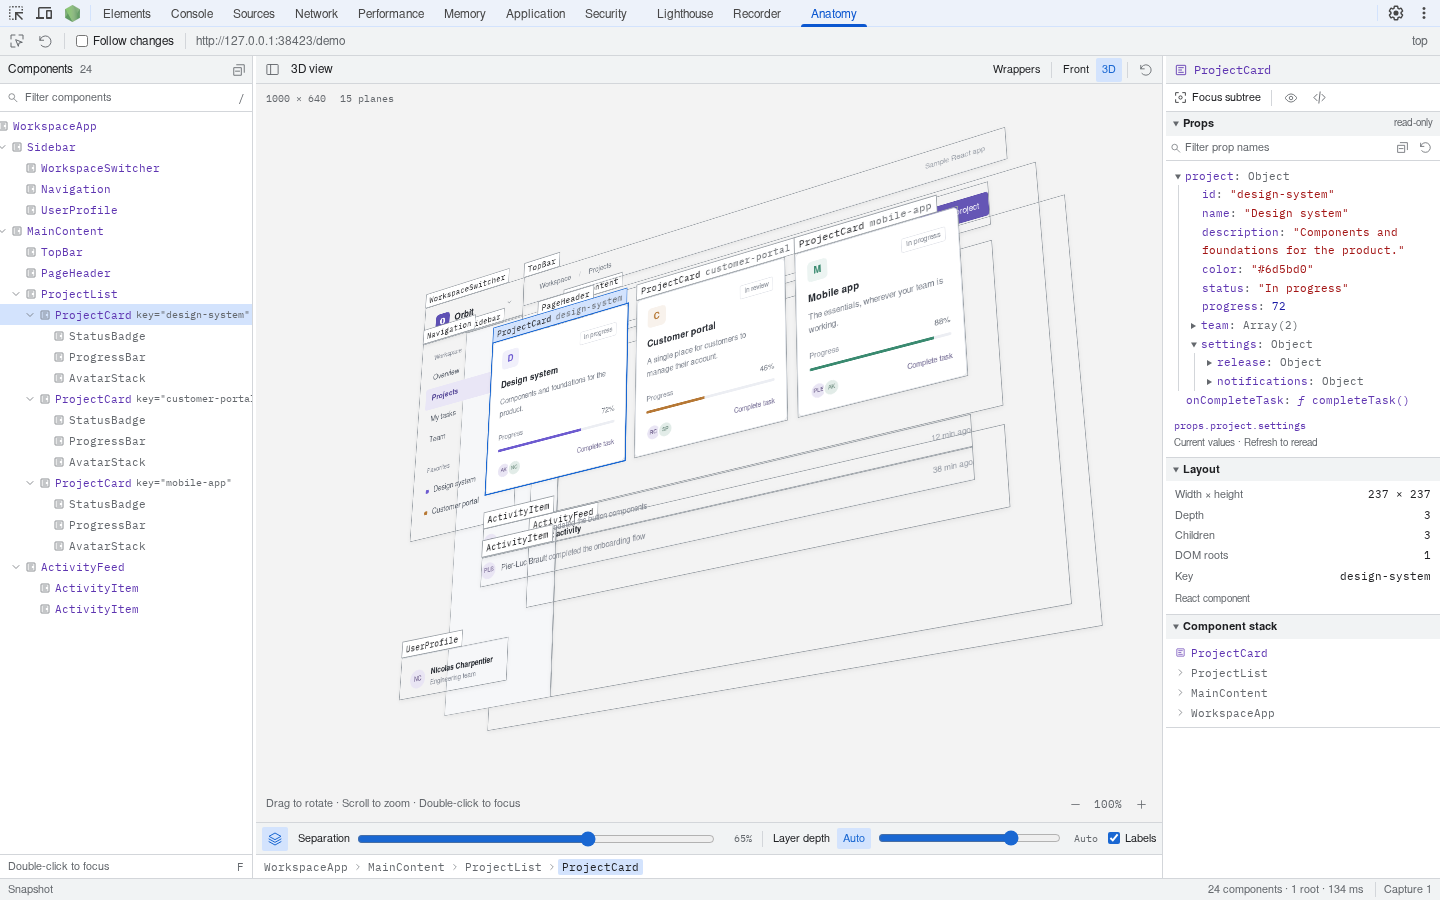
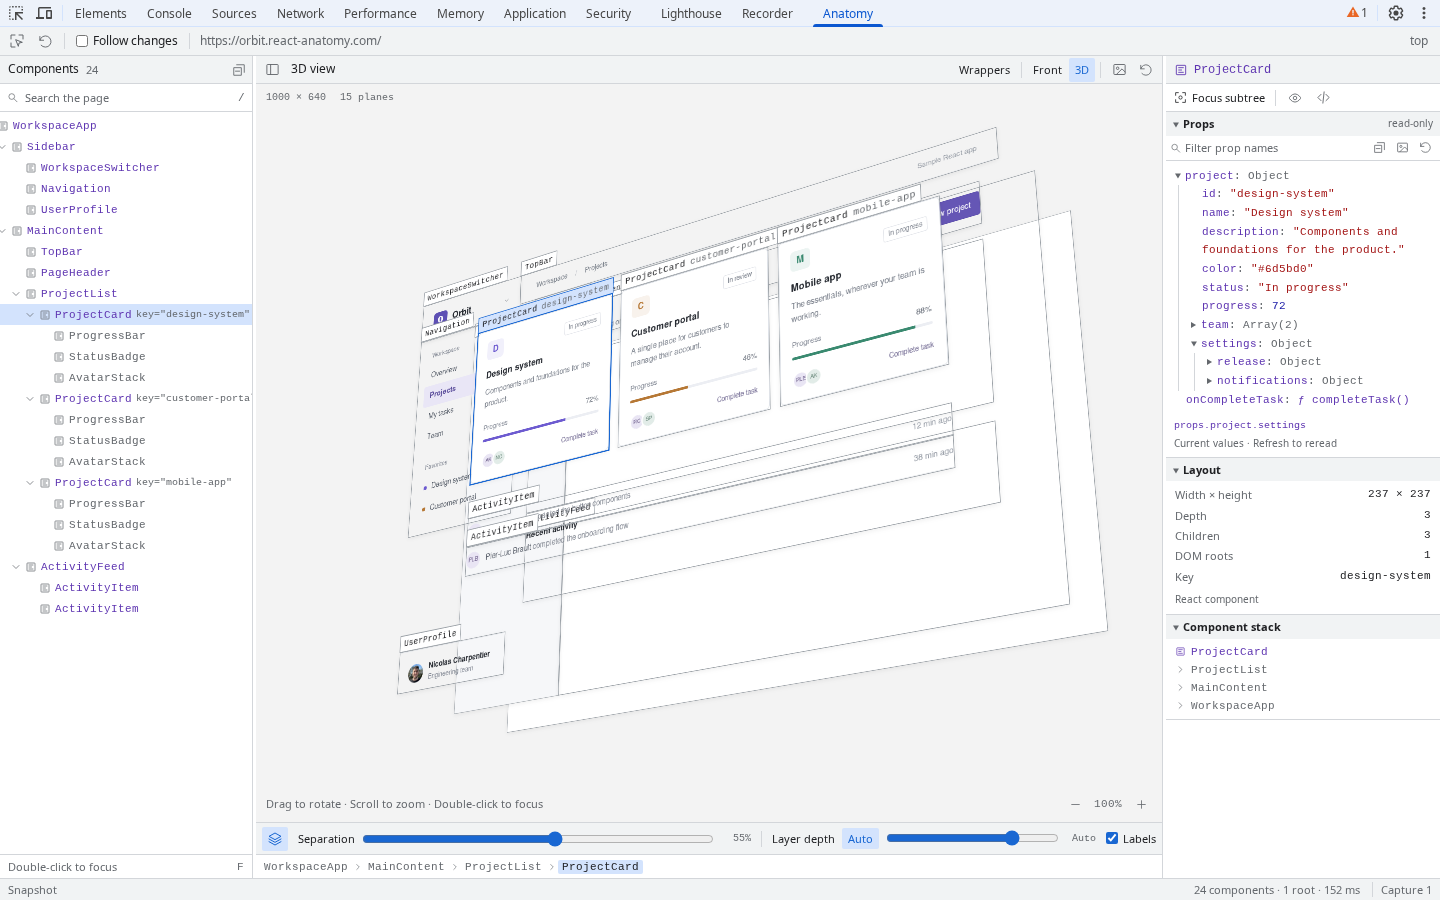
Use the public Orbit sample URL across the demo and docs (#26)

diff --git a/packages/website/scripts/check-demo.ts b/packages/website/scripts/check-demo.ts
@@ -54,6 +54,7 @@ const server = createServer(async (request, response) => {
 await new Promise<void>((done) => server.listen(0, '127.0.0.1', done));
 
 const base = `http://127.0.0.1:${(server.address() as AddressInfo).port}`;
+const orbitUrl = 'https://orbit.react-anatomy.com/';
 const browser = await chromium.launch({ headless: true, ...browserOptions() });
 const errors: string[] = [];
 const failures: string[] = [];
@@ -110,6 +111,12 @@ try {
   await observe(page);
   await page.goto(base);
   await page.locator('#demo').scrollIntoViewIfNeeded();
+  assert.equal(
+    await page
+      .getByRole('link', { name: 'orbit.react-anatomy.com', exact: true })
+      .getAttribute('href'),
+    orbitUrl,
+  );
 
   const source = page.frameLocator('#anatomy-source');
   const panel = page.frameLocator('#anatomy-panel');
@@ -130,6 +137,7 @@ try {
   await source.getByRole('button', { name: 'Complete task', exact: true }).first().click();
   await page.locator('[data-step="props"]').click();
   await panel.locator('[data-prop-path="props.project.progress"]').waitFor();
+  assert.equal(await panel.locator('.session').innerText(), orbitUrl);
   assert.equal(await page.locator('.demo-start-hint').isVisible(), false);
   assert.match(await panel.locator('[data-prop-path="props.project.progress"]').innerText(), /80/);
   assert.equal(await panel.locator('.tree-select').count(), 24);
@@ -379,11 +387,24 @@ try {
   );
 
   await page.goto(base + '/docs/');
-  const [orbit] = await Promise.all([
-    page.waitForEvent('popup'),
-    page.getByRole('link', { name: 'Open the Orbit sample in a new tab' }).click(),
-  ]);
+  const orbitLink = page.getByRole('link', { name: 'Open the Orbit sample in a new tab' });
+  assert.equal(await orbitLink.getAttribute('href'), orbitUrl);
+
+  // Serve the popup from this build using the same paths as the production rewrites.
+  const orbitPaths: Record<string, string> = {
+    '/': '/interactive/source.html',
+    '/source.js': '/interactive/source.js',
+    '/source.css': '/interactive/source.css',
+    '/fonts.css': '/interactive/fonts.css',
+  };
+  await page.context().route(orbitUrl + '**', async (route) => {
+    const { pathname } = new URL(route.request().url());
+    const path = orbitPaths[pathname] ?? pathname;
+    await route.fulfill({ response: await page.request.get(base + path) });
+  });
+  const [orbit] = await Promise.all([page.waitForEvent('popup'), orbitLink.click()]);
   try {
+    assert.equal(orbit.url(), orbitUrl);
     await orbit.setViewportSize({ width: 900, height: 400 });
     await orbit.locator('.project-card').first().waitFor();
     await orbit.mouse.wheel(0, 400);

diff --git a/packages/extension/scripts/intro/record.ts b/packages/extension/scripts/intro/record.ts
@@ -8,9 +8,8 @@ import type { Narration } from './types.ts';
 import assert from 'node:assert/strict';
 import { mkdir, writeFile, readFile, rm } from 'node:fs/promises';
 import { resolve } from 'node:path';
-import { createServer } from 'node:net';
 import { launchExtension, openDevtoolsPanel } from '../chrome-harness.ts';
-import { startFixtureServer } from '../fixture-server.ts';
+import { openOrbitSample, orbitUrl } from '../demo/page.ts';
 import { DESKTOP, CHROME_HEIGHT, WINDOW, TITLE_HEIGHT, DEVTOOLS, SUBTITLE_BAND } from './layout.ts';
 import type { CDPSession, Page } from 'playwright';
 
@@ -24,14 +23,6 @@ await mkdir(output + '/frames', { recursive: true });
 
 const clip = Object.fromEntries(narration.clips.map((c) => [c.id, c]));
 
-const portFree = (port: number | undefined) =>
-  new Promise((r) => {
-    const s = createServer()
-      .once('error', () => r(false))
-      .listen(port, '127.0.0.1', () => s.close(() => r(true)));
-  });
-
-const fixture = await startFixtureServer((await portFree(4174)) ? 4174 : 0);
 const h = await launchExtension();
 
 const pause = (ms: number | undefined) => new Promise((r) => setTimeout(r, ms));
@@ -65,7 +56,7 @@ const save = () =>
     output + '/timeline.json',
     JSON.stringify(
       {
-        url: fixture.url + '/demo',
+        url: orbitUrl,
         fps: 30,
         duration: time,
         frames,
@@ -385,7 +376,7 @@ try {
 
   source.on('pageerror', (e) => sourceErrors.push(e.message));
   await source.setViewportSize({ width: DESKTOP.w, height: DESKTOP.h - CHROME_HEIGHT });
-  await source.goto(fixture.url + '/demo');
+  await openOrbitSample(source);
   await source.getByRole('button', { name: 'New project' }).waitFor();
   sourceSession = await h.context.newCDPSession(source);
   await sourceSession.send('Emulation.setDeviceMetricsOverride', {
@@ -640,5 +631,4 @@ try {
   console.log(`Captured ${frames.length} frames; ${time.toFixed(2)} seconds.`);
 } finally {
   await h.close();
-  await fixture.close();
 }

diff --git a/packages/extension/scripts/demo/record.ts b/packages/extension/scripts/demo/record.ts
@@ -4,7 +4,7 @@ import assert from 'node:assert/strict';
 import { mkdir, writeFile, readFile } from 'node:fs/promises';
 import { resolve } from 'node:path';
 import { launchExtension, openDevtoolsPanel } from '../chrome-harness.ts';
-import { startFixtureServer } from '../fixture-server.ts';
+import { openOrbitSample, orbitUrl } from './page.ts';
 import type { CDPSession, Page } from 'playwright';
 
 process.env.FONTCONFIG_FILE = resolve('scripts/demo/fonts.conf');
@@ -42,10 +42,6 @@ if (resumeLive && previous) {
   previous.duration = cut;
 }
 
-const port = resume
-  ? Number(process.env.DEMO_PORT || (previous?.url ? new URL(previous.url).port : 0))
-  : 0;
-const fixture = await startFixtureServer(port);
 const h = await launchExtension();
 const frames: DemoTimeline['frames'] = previous?.frames || [];
 const captions: DemoTimeline['captions'] = previous?.captions || [];
@@ -73,7 +69,7 @@ const save = () =>
     output + '/timeline.json',
     JSON.stringify(
       {
-        url: fixture.url + '/demo',
+        url: orbitUrl,
         width: 2560,
         height: 1440,
         contentHeight: 1300,
@@ -350,7 +346,7 @@ try {
 
   source.on('pageerror', (e) => sourceErrors.push(e.message));
   await source.setViewportSize({ width: 1280, height: 650 });
-  await source.goto(fixture.url + '/demo');
+  await openOrbitSample(source);
   await source.getByRole('button', { name: 'New project' }).waitFor();
   sourceSession = await h.context.newCDPSession(source);
   await sourceSession.send('Emulation.setDeviceMetricsOverride', {
@@ -718,5 +714,4 @@ try {
   );
 } finally {
   await h.close();
-  await fixture.close();
 }

diff --git a/packages/extension/scripts/release/capture-store.ts b/packages/extension/scripts/release/capture-store.ts
@@ -5,7 +5,7 @@ import { tmpdir } from 'node:os';
 import { chromium } from 'playwright';
 import { launchExtension, openDevtoolsPanel } from '../chrome-harness.ts';
 import { browserOptions } from '../browser-options.ts';
-import { startFixtureServer } from '../fixture-server.ts';
+import { openOrbitSample } from '../demo/page.ts';
 import { archive, collect, extract, json, node, releaseAt, repository, sha256 } from './common.ts';
 
 const release = await releaseAt();
@@ -18,7 +18,6 @@ const unpacked = await mkdtemp(join(tmpdir(), 'anatomy-store-capture-'));
 await extract(await readFile(join(release.directory, release.artifacts.chrome.file)), unpacked);
 await node('scripts/demo/build.ts');
 
-const fixture = await startFixtureServer();
 let h!: Awaited<ReturnType<typeof launchExtension>>;
 const images: ({ file: string; description: string; sha256: string } & ReturnType<
   typeof pngInfo
@@ -41,7 +40,7 @@ try {
 
   page.on('pageerror', (error) => errors.push(error.message));
   await page.setViewportSize({ width: 1000, height: 640 });
-  await page.goto(fixture.url + '/demo');
+  await openOrbitSample(page);
   await page.getByRole('button', { name: 'New project' }).waitFor();
 
   const { session, panelSession } = await openDevtoolsPanel(h);
@@ -169,7 +168,6 @@ try {
     await h.close();
   }
 
-  await fixture.close();
   await rm(unpacked, { recursive: true, force: true });
 }
 

diff --git a/packages/extension/scripts/capture-readme.ts b/packages/extension/scripts/capture-readme.ts
@@ -2,10 +2,9 @@ import assert from 'node:assert/strict';
 import { mkdir, writeFile } from 'node:fs/promises';
 import { fileURLToPath } from 'node:url';
 import { launchExtension, openDevtoolsPanel } from './chrome-harness.ts';
-import { startFixtureServer } from './fixture-server.ts';
+import { openOrbitSample } from './demo/page.ts';
 
 const output = fileURLToPath(new URL('../assets/', import.meta.url));
-const fixture = await startFixtureServer();
 const errors: string[] = [];
 let browser: Awaited<ReturnType<typeof launchExtension>> | undefined;
 
@@ -18,7 +17,7 @@ try {
   page.on('pageerror', (error) => errors.push(error.message));
 
   await page.setViewportSize({ width: 1000, height: 640 });
-  await page.goto(fixture.url + '/demo');
+  await openOrbitSample(page);
   await page.getByRole('button', { name: 'New project' }).waitFor();
 
   const { session, panelSession } = await openDevtoolsPanel(browser);
@@ -94,5 +93,4 @@ try {
   console.log(`Captured the real Anatomy DevTools panel: ${output}extension.png`);
 } finally {
   await browser?.close();
-  await fixture.close();
 }

diff --git a/packages/website/demo/transport.ts b/packages/website/demo/transport.ts
@@ -1,6 +1,5 @@
 import type { Transport } from '@react-anatomy/extension/inspector/types.ts';
-
-const sampleUrl = 'https://orbit.example/projects';
+import { orbitUrl } from '../src/lib/site.ts';
 
 export function createTransport(): Omit<Transport, 'mode'> & { mode: 'demo' } {
   let lastPicked: string | null = null;
@@ -38,9 +37,9 @@ export function createTransport(): Omit<Transport, 'mode'> & { mode: 'demo' } {
 
       // Consistent display URL in capture and status; the source is a bundled fixture.
       if (result && 'snapshot' in result) {
-        return { ...result, snapshot: { ...result.snapshot, url: sampleUrl } };
+        return { ...result, snapshot: { ...result.snapshot, url: orbitUrl } };
       }
-      return result && 'url' in result ? { ...result, url: sampleUrl } : result;
+      return result && 'url' in result ? { ...result, url: orbitUrl } : result;
     },
     onNavigate: () => () => {},
   };

diff --git a/packages/website/src/pages/llms.txt.ts b/packages/website/src/pages/llms.txt.ts
@@ -1,6 +1,6 @@
 import { getCollection } from 'astro:content';
 import { documentPath } from '../lib/documentation.ts';
-import { canonicalUrl, site } from '../lib/site.ts';
+import { canonicalUrl, orbitUrl, site } from '../lib/site.ts';
 
 export async function GET() {
   const entries = (await getCollection('docs')).sort((a, b) => a.id.localeCompare(b.id));
@@ -16,6 +16,7 @@ export async function GET() {
       'The Markdown documents below are generated from the same sources as the website. Each includes the URL of its HTML page for citation.',
       '## Website and source',
       `- [Website and interactive example](${canonicalUrl('/')})`,
+      `- [Standalone Orbit sample app](${orbitUrl})`,
       `- [Source code](${site.repository})`,
       `- [MIT license](${site.repository}/blob/main/LICENSE)`,
       '## Documentation',

diff --git a/packages/extension/scripts/demo/page.ts b/packages/extension/scripts/demo/page.ts
@@ -1,0 +1,11 @@
+import type { Page } from 'playwright';
+
+export const orbitUrl = 'https://orbit.react-anatomy.com/';
+
+// Capture this checkout's self-contained Orbit build at its public address.
+export async function openOrbitSample(page: Page) {
+  await page.route(orbitUrl, (route) =>
+    route.fulfill({ path: 'dist/demo-app.html', contentType: 'text/html' }),
+  );
+  await page.goto(orbitUrl);
+}

diff --git a/packages/website/src/styles/demo.css b/packages/website/src/styles/demo.css
@@ -29,8 +29,9 @@
 .demo-address {
   flex: 1;
 }
-.demo-address > span {
-  color: #8a9099;
+.demo-address a {
+  text-decoration: underline;
+  text-underline-offset: 2px;
 }
 .demo-badge {
   font-size: 10px;

diff --git a/packages/website/src/lib/site.ts b/packages/website/src/lib/site.ts
@@ -1,3 +1,5 @@
+export { orbitUrl } from '@react-anatomy/extension/demo/page.ts';
+
 export const site = {
   name: 'React Anatomy',
   url: 'https://react-anatomy.com',

diff --git a/packages/website/README.md b/packages/website/README.md
@@ -28,7 +28,7 @@ Brand assets are imported from `@react-anatomy/brand`. The logo and favicon are 
 
 The sample loads with the page; the heavier inspector loads when a visitor opens Anatomy. The `predev` and `prebuild` scripts generate both bundles. After editing inspector or demo source while the Astro dev server is already running, run `pnpm --filter @react-anatomy/website exec node scripts/build-demo.ts` and reload the page.
 
-Wheel and trackpad scrolling over either example frame moves the landing page. The website intercepts wheel events before they reach the shared inspector, including over the tree and props pane; zoom buttons and mouse dragging remain available. On touch devices, swiping the embedded Orbit sample scrolls the landing page. The first-capture guide opens the same sample at `/interactive/source.html` in its own tab, where it scrolls normally. In the inspector, a touch that starts on the layers themselves rotates the view in any direction and never scrolls the page: the planes use `touch-action: none`, and the website also cancels those touch moves so this does not depend on how a browser maps `touch-action` onto 3D-transformed layers. The empty canvas around the layers uses `touch-action: pan-y`: a vertical swipe that starts there scrolls the landing page, and a sideways drag still rotates. The canvas fills most of a phone screen, so reserving every touch for rotation would trap the reader. Both rules are set in `demo/panel.css` for the example only. When the browser claims a swipe, the canvas restores the rotation that gesture began and does not select a layer. The component tree and props list scroll natively, then pass further swipes to the page at their end. Swipes on the inspector’s fixed bars are forwarded using screen coordinates, which stay stable as the iframe moves. Splitters and sliders keep their own touch gestures.
+Wheel and trackpad scrolling over either example frame moves the landing page. The website intercepts wheel events before they reach the shared inspector, including over the tree and props pane; zoom buttons and mouse dragging remain available. On touch devices, swiping the embedded Orbit sample scrolls the landing page. The first-capture guide opens the same sample at `https://orbit.react-anatomy.com/` in its own tab, where it scrolls normally. In the inspector, a touch that starts on the layers themselves rotates the view in any direction and never scrolls the page: the planes use `touch-action: none`, and the website also cancels those touch moves so this does not depend on how a browser maps `touch-action` onto 3D-transformed layers. The empty canvas around the layers uses `touch-action: pan-y`: a vertical swipe that starts there scrolls the landing page, and a sideways drag still rotates. The canvas fills most of a phone screen, so reserving every touch for rotation would trap the reader. Both rules are set in `demo/panel.css` for the example only. When the browser claims a swipe, the canvas restores the rotation that gesture began and does not select a layer. The component tree and props list scroll natively, then pass further swipes to the page at their end. Swipes on the inspector’s fixed bars are forwarded using screen coordinates, which stay stable as the iframe moves. Splitters and sliders keep their own touch gestures.
 
 At 720px and narrower, the example fits one phone screen with room left to scroll past it: the browser frame’s title row is hidden, the viewport height follows the small viewport height (`100svh`) between 320px and 490px, and the inspector hides its breadcrumb and capture footer. While the introduction plays, Skip intro takes Restart’s place in the tab bar. The extension itself keeps its normal scroll-to-zoom behaviour. Browser zoom gestures retain their default handling. The forwarding is reattached when either frame reloads or the example restarts.
 
@@ -125,6 +125,8 @@ Connect `charpeni/react-anatomy` through the Worker's GitHub integration, then u
 The Worker name must match `name` in `wrangler.jsonc`. Wrangler is pinned in the root package. `pnpm check:deploy` verifies the build and deployment configuration without publishing; `pnpm deploy:website` builds and deploys using your Cloudflare credentials.
 
 After deployment succeeds, add `react-anatomy.com` under the Worker's **Settings → Domains & Routes → Add → Custom domain**. Check the landing page, `/docs/`, `/privacy/`, the live example, search, screenshot viewers, and a nonexistent URL. Unknown paths must return the site's 404 page, not the landing page.
+
+The Orbit custom domain on the same Worker serves the standalone sample. Two Cloudflare URL Rewrite Rules match `orbit.react-anatomy.com`. The first maps `/` to `/interactive/source`. The second prefixes `/source.js`, `/source.css`, and `/fonts.css` with `/interactive`. The favicon is already at `/favicon.svg`. The landing page embeds the sample from its own origin so its inspector can access the frame.
 
 GitHub integration deploys `main`; it does not publish the browser extensions.
 

diff --git a/packages/website/src/content/docs/docs/index.md b/packages/website/src/content/docs/docs/index.md
@@ -10,7 +10,7 @@ You can [try the interactive example](/#demo) in your browser or follow the step
 ## Make your first capture
 
 1. Install React Anatomy from the [Chrome Web Store](https://chromewebstore.google.com/detail/react-anatomy/cllgnlljmehhoemdlfngkkpienkglkml) or [Firefox Add-ons](https://addons.mozilla.org/en-US/firefox/addon/react-anatomy/).
-2. <a href="/interactive/source.html" target="_blank" rel="noopener">Open the Orbit sample in a new tab</a>. Open DevTools on that tab and choose **Anatomy**. If DevTools was open during installation, close and reopen it. Look under **»** if the tab is hidden. The first capture runs automatically.
+2. <a href="https://orbit.react-anatomy.com/" target="_blank" rel="noopener">Open the Orbit sample in a new tab</a>. Open DevTools on that tab and choose **Anatomy**. If DevTools was open during installation, close and reopen it. Look under **»** if the tab is hidden. The first capture runs automatically.
 3. Choose **Pick on page** and click just inside the edge of a project card. Look for **ProjectCard** in the component tree, then expand its **project** prop in the inspector.
 
 Prefer a separate inspector window? Click the React Anatomy extension button while viewing Orbit.
